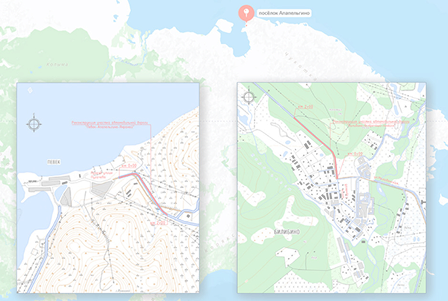
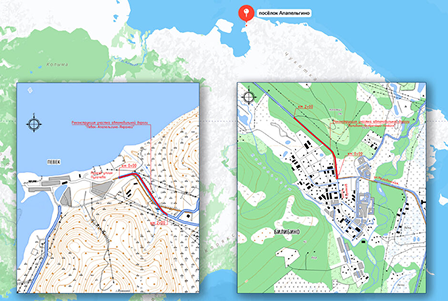
0.0.007 18.05.26

diff --git a/styles/mainpage.module.css b/styles/mainpage.module.css
@@ -833,21 +833,24 @@
 }
 .child {
   align-self: stretch;
+  display: flex;
   justify-content: center;
   padding: 0 clamp(20px, 5vw, 40px) 196px;
   box-sizing: border-box;
+
   text-align: left;
   font-size: 48px;
   color: var(--Primary-blue);
   font-family: Montserrat;
 }
+
 .parent7 {
   width: 100%;
   max-width: 1440px;
-  margin: 0 auto;
-  overflow: hidden;
+
+  display: flex;
   flex-direction: column;
-  gap: 100px;
+  gap: 80px;
 }
 .frameParent2 {
   margin-left: -1px;
@@ -1833,4 +1836,314 @@
 .buttonArrowSmallDark,
 .buttonArrowSmallDark2 {
   will-change: transform;
+}
+/* ===== NEWS SECTION ===== */
+
+.child {
+  align-self: stretch;
+  display: flex;
+  justify-content: center;
+  padding: 0 clamp(20px, 5vw, 40px) 196px;
+  box-sizing: border-box;
+
+  text-align: left;
+  font-size: 48px;
+  color: var(--Primary-blue);
+  font-family: Montserrat;
+}
+
+.parent7 {
+  width: 100%;
+  max-width: 1440px;
+
+  display: flex;
+  flex-direction: column;
+  gap: 80px;
+}
+
+.h12 {
+  margin: 0;
+  font-size: 48px;
+  font-weight: 700;
+  letter-spacing: 0.09em;
+}
+
+/* ===== GRID ===== */
+
+.frameWrapper {
+  width: 100%;
+}
+
+.topImageParent {
+  display: grid;
+  grid-template-columns: repeat(3, minmax(0, 1fr));
+  gap: 32px;
+  width: 100%;
+}
+
+/* ===== CARDS ===== */
+
+.topImage,
+.bottomImage,
+.parent8 {
+  background: var(--Primary-blue);
+
+  display: flex;
+  flex-direction: column;
+
+  padding: 24px;
+  box-sizing: border-box;
+
+  min-height: 100%;
+
+  overflow: hidden;
+
+  transition:
+    transform 0.35s ease,
+    box-shadow 0.35s ease;
+}
+
+.topImage:hover,
+.bottomImage:hover,
+.parent8:hover {
+  transform: translateY(-8px);
+
+  box-shadow: 0 20px 40px rgba(0, 0, 0, 0.2);
+}
+
+/* ===== DATE ===== */
+
+.h37,
+.h38 {
+  margin: 0 0 20px;
+
+  font-size: 18px;
+  font-weight: 500;
+
+  color: #fff;
+}
+
+/* ===== IMAGE WRAPPER ===== */
+
+.image4Parent {
+  display: flex;
+  flex-direction: column;
+  gap: 24px;
+
+  width: 100%;
+}
+
+/* ===== IMAGES ===== */
+
+.image4Icon,
+.image4Icon2 {
+  position: relative !important;
+
+  width: 100% !important;
+  height: 280px !important;
+
+  max-width: 100%;
+
+  object-fit: cover;
+
+  top: unset !important;
+  left: unset !important;
+  right: unset !important;
+
+  margin: 0 !important;
+
+  transition:
+    transform 0.6s ease,
+    filter 0.4s ease;
+}
+
+.topImage:hover .image4Icon,
+.bottomImage:hover .image4Icon2,
+.parent8:hover .image4Icon2 {
+  transform: scale(1.03);
+
+  filter: brightness(1.05);
+}
+
+/* ===== TEXT ===== */
+
+.div8 {
+  font-size: 18px;
+  line-height: 1.6;
+  font-weight: 600;
+
+  color: #fff;
+}
+
+/* ===== BOTTOM CONTROLS ===== */
+
+.buttonArrowSmallDarkParent {
+  display: flex;
+  align-items: center;
+  justify-content: space-between;
+
+  gap: 32px;
+
+  margin-top: 20px;
+}
+
+/* ===== BUTTON ===== */
+
+.buttonArrowSmallDark2 {
+  cursor: pointer;
+
+  border: 2px solid #1c52d8;
+
+  background: transparent;
+
+  min-width: 220px;
+  height: 64px;
+
+  padding: 0 28px;
+
+  display: flex;
+  align-items: center;
+  justify-content: center;
+
+  gap: 12px;
+
+  flex-shrink: 0;
+
+  transition:
+    transform 0.3s ease,
+    background-color 0.3s ease,
+    box-shadow 0.3s ease;
+}
+
+.buttonArrowSmallDark2:hover {
+  transform: translateY(-4px);
+
+  background: var(--Primary-blue);
+
+  box-shadow: 0 12px 30px rgba(28, 82, 216, 0.2);
+}
+
+.text6 {
+  display: flex;
+  align-items: center;
+  justify-content: center;
+}
+
+.button8 {
+  font-size: 16px;
+  font-weight: 600;
+
+  color: #1c52d8;
+
+  white-space: nowrap;
+}
+
+.buttonArrowSmallDark2:hover .button8 {
+  color: #fff;
+}
+
+.iconarrow {
+  display: flex;
+  align-items: center;
+  justify-content: center;
+}
+
+.icon11 {
+  width: 16px;
+  height: 16px;
+
+  flex-shrink: 0;
+}
+
+.buttonArrowSmallDark2:hover .icon11 {
+  filter: brightness(0) invert(1);
+}
+
+/* ===== PAGINATION ===== */
+
+.frameWrapper2 {
+  display: flex;
+  align-items: center;
+}
+
+.frameParent3 {
+  display: flex;
+  align-items: center;
+  gap: 32px;
+}
+
+.parkingDetails {
+  margin: 0;
+
+  font-size: 32px;
+  font-weight: 700;
+  letter-spacing: 0.09em;
+}
+
+.iconBadgeParent {
+  display: flex;
+  align-items: center;
+  gap: 16px;
+}
+
+.iconBadge,
+.iconBadge2 {
+  cursor: pointer;
+
+  width: 64px;
+  height: 64px;
+
+  transition:
+    transform 0.3s ease,
+    opacity 0.3s ease;
+}
+
+.iconBadge:hover,
+.iconBadge2:hover {
+  transform: scale(1.08);
+}
+
+/* ===== MOBILE ===== */
+
+@media screen and (max-width: 1100px) {
+  .topImageParent {
+    grid-template-columns: 1fr;
+  }
+
+  .buttonArrowSmallDarkParent {
+    flex-direction: column;
+    align-items: flex-start;
+  }
+}
+
+@media screen and (max-width: 768px) {
+  .child {
+    padding-bottom: 100px;
+  }
+
+  .parent7 {
+    gap: 48px;
+  }
+
+  .h12 {
+    font-size: 32px;
+  }
+
+  .image4Icon,
+  .image4Icon2 {
+    height: 220px !important;
+  }
+
+  .div8 {
+    font-size: 16px;
+  }
+
+  .buttonArrowSmallDark2 {
+    width: 100%;
+  }
+
+  .frameParent3 {
+    width: 100%;
+    justify-content: space-between;
+  }
 }